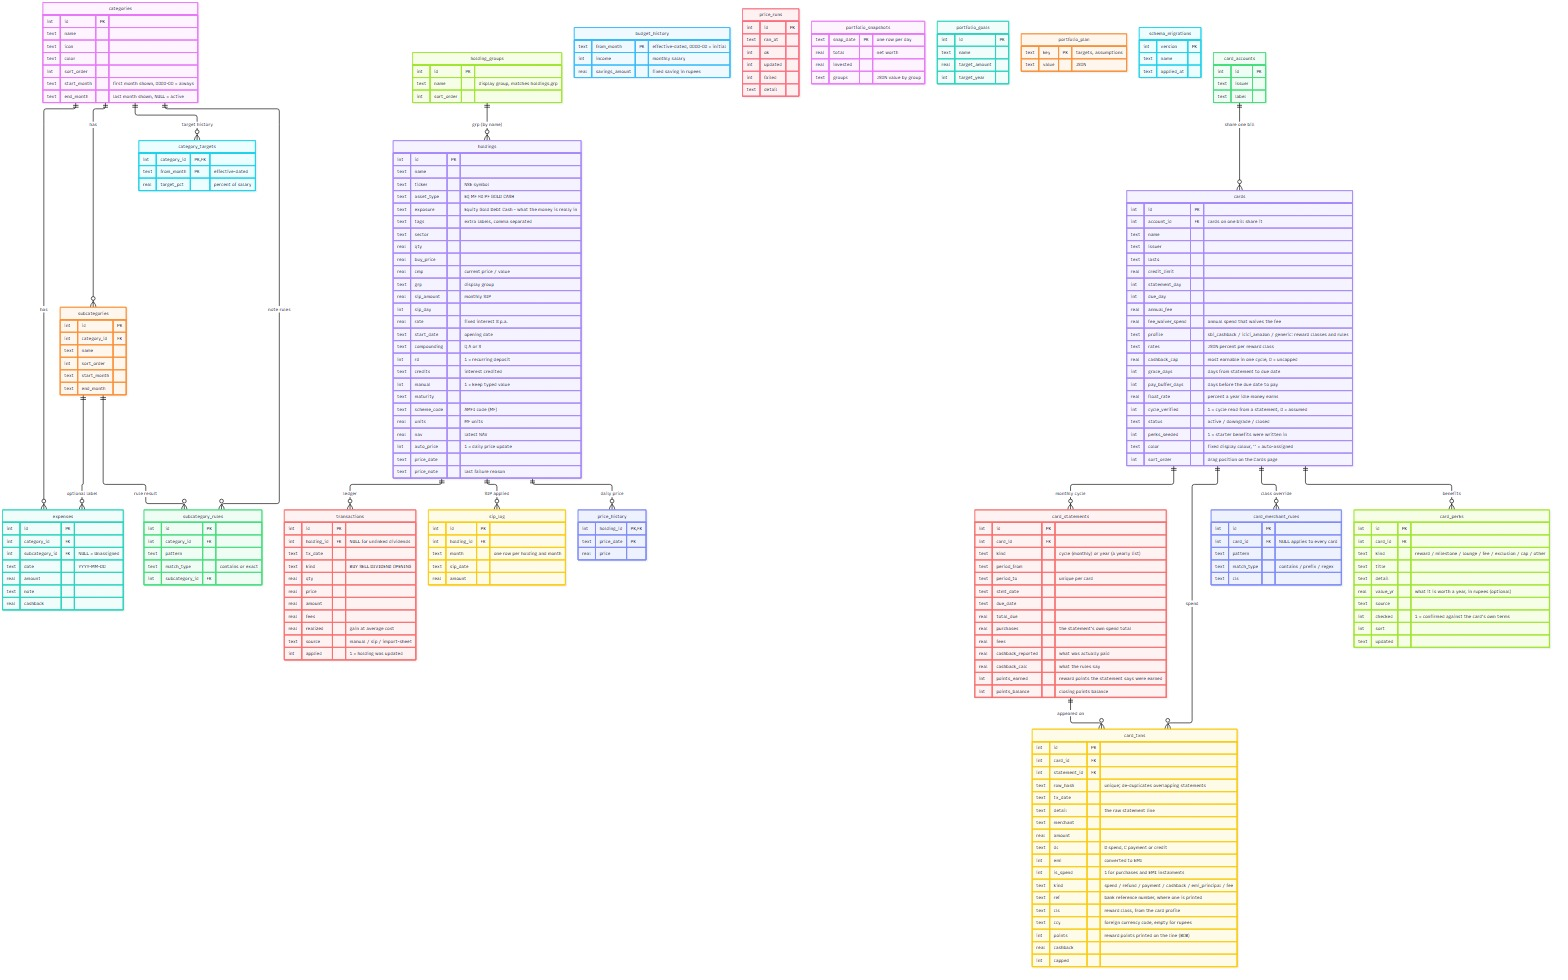
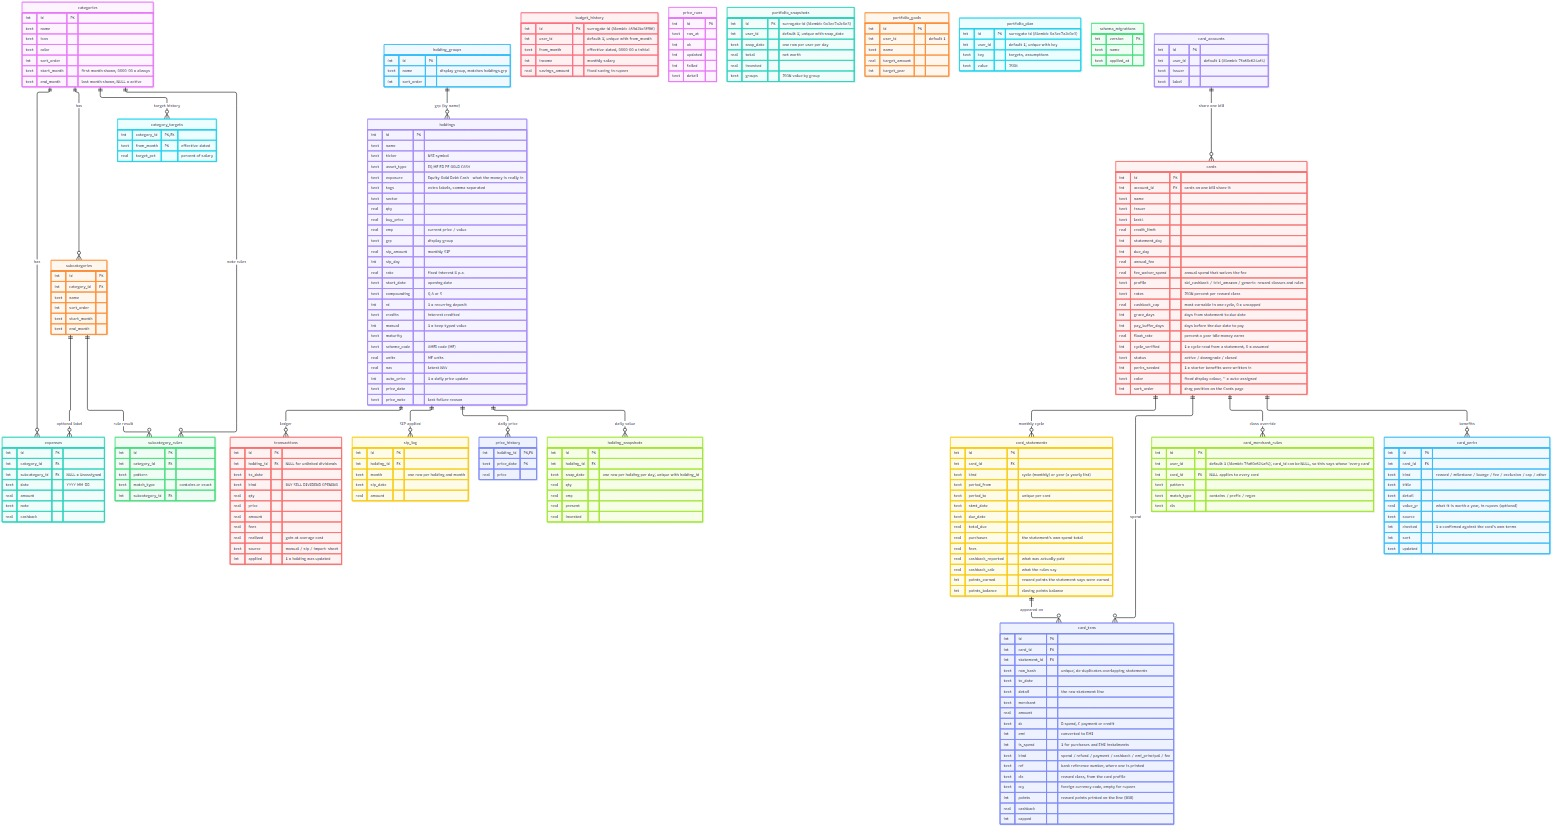
Document the SQLAlchemy/Alembic layer, remove stale migration backups
README.md and DATA_MODEL.md now reflect everything built on this branch
so far: the db/ package (engine, models, migrate.py), the dual
sqlite3/SQLAlchemy connection pattern routes currently use, Alembic
replacing database.py's MIGRATIONS for new schema changes (with
instructions for adding one), and the new holding_snapshots table.
Regenerated data-model.jpg from the updated ERD after validating both
it and the README's two Mermaid diagrams render without errors.

Deleted the three spendlens_v2.pre-*-alembic-20261008.bak snapshots
taken before this session's migrations (each one's migration is now
tested and verified against the real database, so the safety net is no
longer needed) and stale __pycache__ directories.

diff --git a/DATA_MODEL.md b/DATA_MODEL.md
@@ -13,6 +13,7 @@ erDiagram
     holdings ||--o{ transactions : "ledger"
     holdings ||--o{ sip_log : "SIP applied"
     holdings ||--o{ price_history : "daily price"
+    holdings ||--o{ holding_snapshots : "daily value"
     holding_groups ||--o{ holdings : "grp (by name)"
 
     categories {
@@ -30,7 +31,9 @@ erDiagram
         real target_pct "percent of salary"
     }
     budget_history {
-        text from_month PK "effective-dated, 0000-00 = initial"
+        int id PK "surrogate id (Alembic 459d2bc3ff86)"
+        int user_id "default 1; unique with from_month"
+        text from_month "effective-dated, 0000-00 = initial"
         int income "monthly salary"
         real savings_amount "fixed saving in rupees"
     }
@@ -125,19 +128,33 @@ erDiagram
         text detail
     }
     portfolio_snapshots {
-        text snap_date PK "one row per day"
+        int id PK "surrogate id (Alembic 0a3ec7a2c0e3)"
+        int user_id "default 1; unique with snap_date"
+        text snap_date "one row per user per day"
         real total "net worth"
         real invested
         text groups "JSON value by group"
     }
+    holding_snapshots {
+        int id PK
+        int holding_id FK
+        text snap_date "one row per holding per day; unique with holding_id"
+        real qty
+        real cmp
+        real present
+        real invested
+    }
     portfolio_goals {
         int id PK
+        int user_id "default 1"
         text name
         real target_amount
         int target_year
     }
     portfolio_plan {
-        text key PK "targets, assumptions"
+        int id PK "surrogate id (Alembic 0a3ec7a2c0e3)"
+        int user_id "default 1; unique with key"
+        text key "targets, assumptions"
         text value "JSON"
     }
     schema_migrations {
@@ -153,6 +170,7 @@ erDiagram
     card_statements ||--o{ card_txns : "appeared on"
     card_accounts {
         int id PK
+        int user_id "default 1 (Alembic 7fa60c624af4)"
         text issuer
         text label
     }
@@ -217,6 +235,7 @@ erDiagram
     }
     card_merchant_rules {
         int id PK
+        int user_id "default 1 (Alembic 7fa60c624af4); card_id can be NULL, so this says whose 'every card'"
         int card_id FK "NULL applies to every card"
         text pattern
         text match_type "contains / prefix / regex"
@@ -242,12 +261,12 @@ Notes on the model:
 - **Effective dating.** A month uses the latest `category_targets` / `budget_history` row whose `from_month` is on or before that month, so changing a target or salary never rewrites earlier months. Budget cap = `income − savings_amount`.
 - **Category lifecycle.** A category is shown in a month if that month is within `start_month`–`end_month` *or* it already has expenses that month, so totals always agree with the data. The same rules apply to sub-categories.
 - **Sub-categories** are a reporting label: a category's total always equals the sum of its sub-categories plus *Unassigned*.
-- **Portfolio tables.** `holdings` is the current position; `transactions` is the dated history (it may update a holding but deleting a row never reverses it); `sip_log` guarantees a SIP is applied once per month; `portfolio_snapshots` holds one net-worth row per day; `price_history` / `price_runs` log the daily price job; `portfolio_goals` and `portfolio_plan` (key/value JSON) hold goals, target allocation and return assumptions. `holding_groups` is linked to `holdings.grp` by name, not by id.
+- **Portfolio tables.** `holdings` is the current position; `transactions` is the dated history (it may update a holding but deleting a row never reverses it); `sip_log` guarantees a SIP is applied once per month; `portfolio_snapshots` holds one net-worth row per user per day; `holding_snapshots` is the same idea per holding, so an individual stock or fund's value can be charted over time even though `holdings.cmp`/`qty` are overwritten in place on every price refresh; `price_history` / `price_runs` log the daily price job; `portfolio_goals` and `portfolio_plan` (key/value JSON) hold goals, target allocation and return assumptions. `holding_groups` is linked to `holdings.grp` by name, not by id.
 - **Exposure and tags.** `grp` is where a holding sits (and what targets are set against); `exposure` is one of Equity / Gold / Debt / Cash and is what the money is really invested in, so the exposure shares always add up to 100%. `tags` are optional extra labels (sector, theme) that may overlap; a holding also shows under a group filter named like one of its tags. The target Equity / Gold / Debt ratio, expected returns and time windows live in `portfolio_plan` under `mix_targets`, `mix_returns`, `mix_reach_years` and `mix_years`; Cash counts as Debt there. Older `exposure_targets` are still read as a fallback.
 - **Forecasts** are computed on request from `expenses`; nothing is stored (see `plan/spendlens-forecasting-ml-plan.md` for the planned `forecasts` tables).
 - **Billing accounts.** A card number and a bill are different things. `card_accounts` groups the cards that share one bill: an ICICI account list names several card numbers, and payments are posted under one yet settle all, so the due date, the payments and the *when to pay* answer belong to the account while spend and rewards belong to the card. Each card number is its own `cards` row. Which numbers are one *physical* card (a re-issue under a new number) is not stored: it is inferred from the dates on every read (`cards.lineage`), so it does not depend on upload order.
 - **Credit cards.** `cards` holds the card and its terms; `card_statements` one row per billing cycle, keyed by `period_to`, carrying both the cashback the statement *paid* (`cashback_reported`) and what the rules say it *should* have paid (`cashback_calc`) — the difference is shown on the dashboard rather than hidden. `card_txns` holds the transactions, de-duplicated by `row_hash` so re-importing an overlapping statement adds nothing, with `cls` (a reward class from the card's profile) deciding the rate. `card_merchant_rules` are your corrections to that classification; saving one re-applies the engine to all of history. `kind` separates what was *spent* from what the bank *billed*: net spend is purchases minus refunds plus EMI instalments, while interest, tax and fees are costs, not spend. **Card spend is not written into `expenses`**: the statements cover months that already have hand-entered expenses, so merging them would double count. Linking the two is a later, explicit step.
 - **Card perks.** `card_perks` is a card's benefits written down by hand (`spendlens/card_perks.py`): rewards, milestones, lounge access, fees, exclusions and caps, each with an optional yearly value (`value_yr`) and a `source`. A card is seeded once from its scheme's published terms (`cards.perks_seeded` guards the seed) with every row starting unconfirmed (`checked = 0`); after you confirm or edit one it is `checked = 1` and the list is yours. These rows are documentation only — nothing in the reward maths reads them. `cards.color` and `cards.sort_order` are display-only: a fixed colour per card (empty = auto-assigned) and the drag position on the Cards page.
-- **Migrations.** `schema_migrations` records which numbered steps from `MIGRATIONS` (`database.py`) have run; each applies once, and a timestamped `.bak` copy is taken before the first pending step on a database that has data. Version 1 is the baseline — the older idempotent `_migrate_admin` / `_migrate_holdings` / sub-category helpers, which still run on every start-up.
-- **`user_id`.** Every table with a surrogate `id` carries `user_id INTEGER DEFAULT 1`, added ahead of multi-user support so login does not need a schema rewrite. The key/value and effective-dated-by-month tables (`portfolio_plan`, `budget_history`, `category_targets`, `price_history`) need their primary keys widened instead, which happens with the login work itself.
-- A legacy `settings` table exists only so old databases can be migrated into `budget_history`. The unused tables `users`, `rebalance_targets` and `price_alerts` were dropped by migration 2; nothing ever read them.
+- **Migrations.** `schema_migrations` records which numbered steps from `MIGRATIONS` (`database.py`) have run; each applies once, and a timestamped `.bak` copy is taken before the first pending step on a database that has data. Version 1 is the baseline — the older idempotent `_migrate_admin` / `_migrate_holdings` / sub-category helpers, which still run on every start-up. **New schema changes go through Alembic** (`alembic/`, `spendlens/db/models/`) instead: `app.py` runs `init_db()` then Alembic's `upgrade_head()` immediately after, on every start-up, so a brand-new database and the live one always reach the same final shape. See the README's "Tests and migrations" section for how to add one.
+- **`user_id`.** Every table with a surrogate `id` carries `user_id INTEGER DEFAULT 1`, added ahead of multi-user support so login does not need a schema rewrite. The key/value and effective-dated-by-month tables that used to need their primary keys widened first (`portfolio_plan`, `budget_history`) have been — both are now keyed on `(user_id, key-ish column)` via Alembic. `category_targets` and `price_history` didn't need it: they're scoped to a user through their `category_id`/`holding_id` FK, which is itself already owned by a user. No route actually filters by `user_id` yet, though — every query still implicitly runs as user 1 until real multi-user login is built.
+- A legacy `settings` table exists only so old databases can be migrated into `budget_history`; it's now keyed on `user_id` rather than a hardcoded `id = 1`, for the same reason as the tables above. The unused tables `users`, `rebalance_targets` and `price_alerts` were dropped by migration 2; nothing ever read them.

diff --git a/README.md b/README.md
@@ -23,9 +23,11 @@ ExpenseTrack/
 ├── plan/                                             forecasting / ML roadmap (Phase A done, B and C planned)
 ├── package.json                 pnpm workspace scripts (dev, build, typecheck)
 ├── pnpm-workspace.yaml          workspace + esbuild build-script allowance
+├── alembic.ini, alembic/        schema migrations (see "Tests and migrations" below)
 ├── screenshot/                  source Excel sheet used to import holdings
 ├── spendlens/                   BACKEND (Python)
-│   ├── app.py                   FastAPI app: mounts /spendlens/api, serves the built UI, port 5000
+│   ├── app.py                   FastAPI app: mounts /spendlens/api, serves the built UI, port 5000;
+│   │                            runs init_db() then Alembic's upgrade_head() on startup
 │   ├── database.py              SQLite connection, schema, seeding, migrations,
 │   │                            month helpers, categories_for_month, budget_for_month
 │   ├── subcategories.py         sub-category seed, note → sub-category matching rules, migration
@@ -43,9 +45,17 @@ ExpenseTrack/
 │   ├── card_advisor.py          which card for what: best card per spend kind, cost of the wrong one
 │   ├── card_perks.py            card benefits (rewards, milestones, lounge, fees) — seed, read, edit
 │   ├── requirements.txt
+│   ├── db/                      SQLAlchemy layer (coexists with raw sqlite3 above; see "Tests and migrations")
+│   │   ├── engine.py            engine/session, DATABASE_URL (defaults to the same SQLite file)
+│   │   ├── base.py              declarative Base
+│   │   ├── migrate.py           upgrade_head(): runs Alembic programmatically, called from app.py and conftest.py
+│   │   └── models/              Holding, HoldingGroup, HoldingSnapshot, PortfolioSnapshot, PortfolioGoal,
+│   │                            PortfolioPlan, Category, CategoryTarget, BudgetHistory, Expense,
+│   │                            Subcategory, SubcategoryRule, Settings, Card, CardAccount,
+│   │                            CardStatement, CardTxn, CardMerchantRule, CardPerk
 │   ├── routes/
 │   │   ├── api.py               aggregates the three routers below into the one FastAPI includes
-│   │   ├── _common.py           get_db_dep: the per-request SQLite connection (FastAPI Depends)
+│   │   ├── _common.py           get_db_dep (per-request SQLite connection) and row_dict (ORM → dict)
 │   │   ├── expense_routes.py    categories, budget, sub-categories, expenses, dashboard, forecast
 │   │   ├── investing_routes.py  holdings, goals, asset mix, daily prices, transactions, ledger
 │   │   └── card_routes.py       cards, statement import, merchant rules, perks, advice
@@ -119,7 +129,9 @@ flowchart TB
     subgraph BE["BACKEND — FastAPI (spendlens/)"]
         ROUTER["routes/api.py<br/>combines the 3 routers below<br/>into the one app.py includes"]
         DEP["routes/_common.py<br/>get_db_dep: one SQLite<br/>connection per request"]
+        ORM["db/engine.py, db/models/<br/>SQLAlchemy Session, partial cutover<br/>+ Alembic migrations on startup"]
         ROUTER -.-> DEP
+        ROUTER -.-> ORM
 
         subgraph EXP["Expense & budget — routes/expense_routes.py"]
             direction LR
@@ -155,6 +167,7 @@ flowchart TB
     EXP -- "reads/writes" --> DB[("SQLite<br/>spendlens_v2.db")]
     PORT -- "reads/writes" --> DB
     CARD -- "reads/writes" --> DB
+    ORM -- "same file, Postgres-ready" --> DB
 
     PRX -- "NSE closes" --> YF["Yahoo Finance<br/>(unofficial, no key)"]
     PRX -- "NAVAll.txt" --> AMFI["AMFI"]
@@ -166,13 +179,17 @@ flowchart TB
 Reading it top to bottom: the **frontend** is six pages that all go through one typed client
 (`api.ts`); every request lands on `routes/api.py`, which is just three domain routers combined
 — **Expense & budget**, **Portfolio**, **Credit cards** — each its own file, each a handful of
-plain Python modules with one job apiece. Every route gets its database connection the same
-way, from the one `get_db_dep` in `routes/_common.py` (a FastAPI `Depends`, so the connection is
-always closed on the way out, including when a request fails partway through). Every group reads
-and writes the **same single SQLite file**, so there's no second database or cache to keep in
-sync. The only two things that leave your machine are the price refresh (Yahoo Finance, AMFI —
-both free, no key) and, only if you opt in, an unrecognised card statement going to the Anthropic
-API.
+plain Python modules with one job apiece. Most routes get their database connection from
+`get_db_dep` in `routes/_common.py` (a FastAPI `Depends` over raw `sqlite3`, so the connection is
+always closed on the way out, even when a request fails partway through). A growing subset of
+each route file's *own* queries — against a table that now has a SQLAlchemy model in
+`db/models/` — instead go through `get_session` (`db/engine.py`), a second `Depends` over a
+SQLAlchemy `Session`. Both point at the **same single SQLite file**, so there's no second
+database or cache to keep in sync; `app.py` also runs Alembic's migrations on startup
+(`db/migrate.py`), right after the older hand-rolled ones in `database.py`, so a brand-new
+database and the live one always end up in the identical shape. The only two things that leave
+your machine are the price refresh (Yahoo Finance, AMFI — both free, no key) and, only if you opt
+in, an unrecognised card statement going to the Anthropic API.
 
 ## Data model
 
@@ -274,13 +291,45 @@ of `spendlens_v2.db` and are skipped if the file is not there.
   at the reach month, the forecast matches a brute-force loop, no SIP share is ever
   negative, and an unreachable target is reported rather than faked.
 
-**Migrations.** Schema changes are numbered steps in `MIGRATIONS` (`database.py`),
-applied once at start-up and recorded in `schema_migrations`. A timestamped
-`spendlens_v2.pre-vN-<date>.bak` is written before the first pending step runs on a
-database that has data. Version 1 is the baseline: the older "re-check the columns every
-start-up" helpers above it (`_migrate_admin`, `_migrate_holdings`, the sub-category
-migration) still run as before. To add a step, append `(n, "name", fn)` to the list —
-never edit a step that has already shipped.
+**Migrations — two systems, one path.** Schema changes used to be numbered steps in
+`MIGRATIONS` (`database.py`), applied once at start-up and recorded in
+`schema_migrations`. That system still exists and still runs first on every start-up
+(`init_db()`, called from `app.py`) — it's the baseline shape every table starts in,
+including a few (`portfolio_snapshots`, `portfolio_goals`, `transactions`,
+`portfolio_plan`) that are actually created lazily on first use rather than by
+`database.py` itself. **New schema changes go through Alembic instead** (`alembic/`,
+`spendlens/db/models/`): `app.py` runs `init_db()` then
+`spendlens/db/migrate.py`'s `upgrade_head()` immediately after, so every
+database — fresh or live — reaches the exact same final schema through the exact same
+two-step path. `tests/conftest.py`'s `seeded_db` fixture runs the identical sequence, so
+the test suite now exercises real start-up behaviour rather than `database.py`'s
+migrations in isolation.
+
+To add a schema change: write a SQLAlchemy model (or extend one) in
+`spendlens/db/models/`, then from the repo root:
+
+```powershell
+.\venv_expense\Scripts\python -m alembic revision -m "describe the change"
+# edit the generated file in alembic/versions/ — review autogenerate, don't trust it blindly
+.\venv_expense\Scripts\python -m alembic upgrade head
+```
+
+Test the migration on a *scratch copy* of `spendlens_v2.db` first — upgrade, downgrade,
+upgrade again — before ever running it against the real file. A table that's created
+lazily (by `ensure()` in `portfolio.py`/`ledger.py`, not by `database.py`'s own startup
+code) may not exist yet when Alembic runs against a brand-new database; guard an `ALTER`
+against that the way `0a3ec7a2c0e3`'s migration does (check `inspector.get_table_names()`
+and `CREATE` directly in the final shape if the table isn't there yet, instead of only
+ever `ALTER`ing).
+
+**sqlite3 and SQLAlchemy currently coexist.** Most routes still read/write through raw
+`sqlite3` (`routes/_common.py`'s `get_db_dep`); the subset of each route file's *own*
+direct queries against a modeled table (not inside `portfolio.py`/`prices.py`/`sip.py`/
+`ledger.py`/`cards.py`/`card_perks.py`/`card_advisor.py`, which still take the raw
+connection they're built for) goes through a SQLAlchemy `Session`
+(`db/engine.py`'s `get_session`) instead. `Expense`-table writes and the heavier
+multi-table reporting joins (`get_dashboard`, `get_monthly_grid`, `get_expenses`,
+`subcategory_review`) are still raw SQL as of this writing.
 
 ## Cards (credit cards)
 
